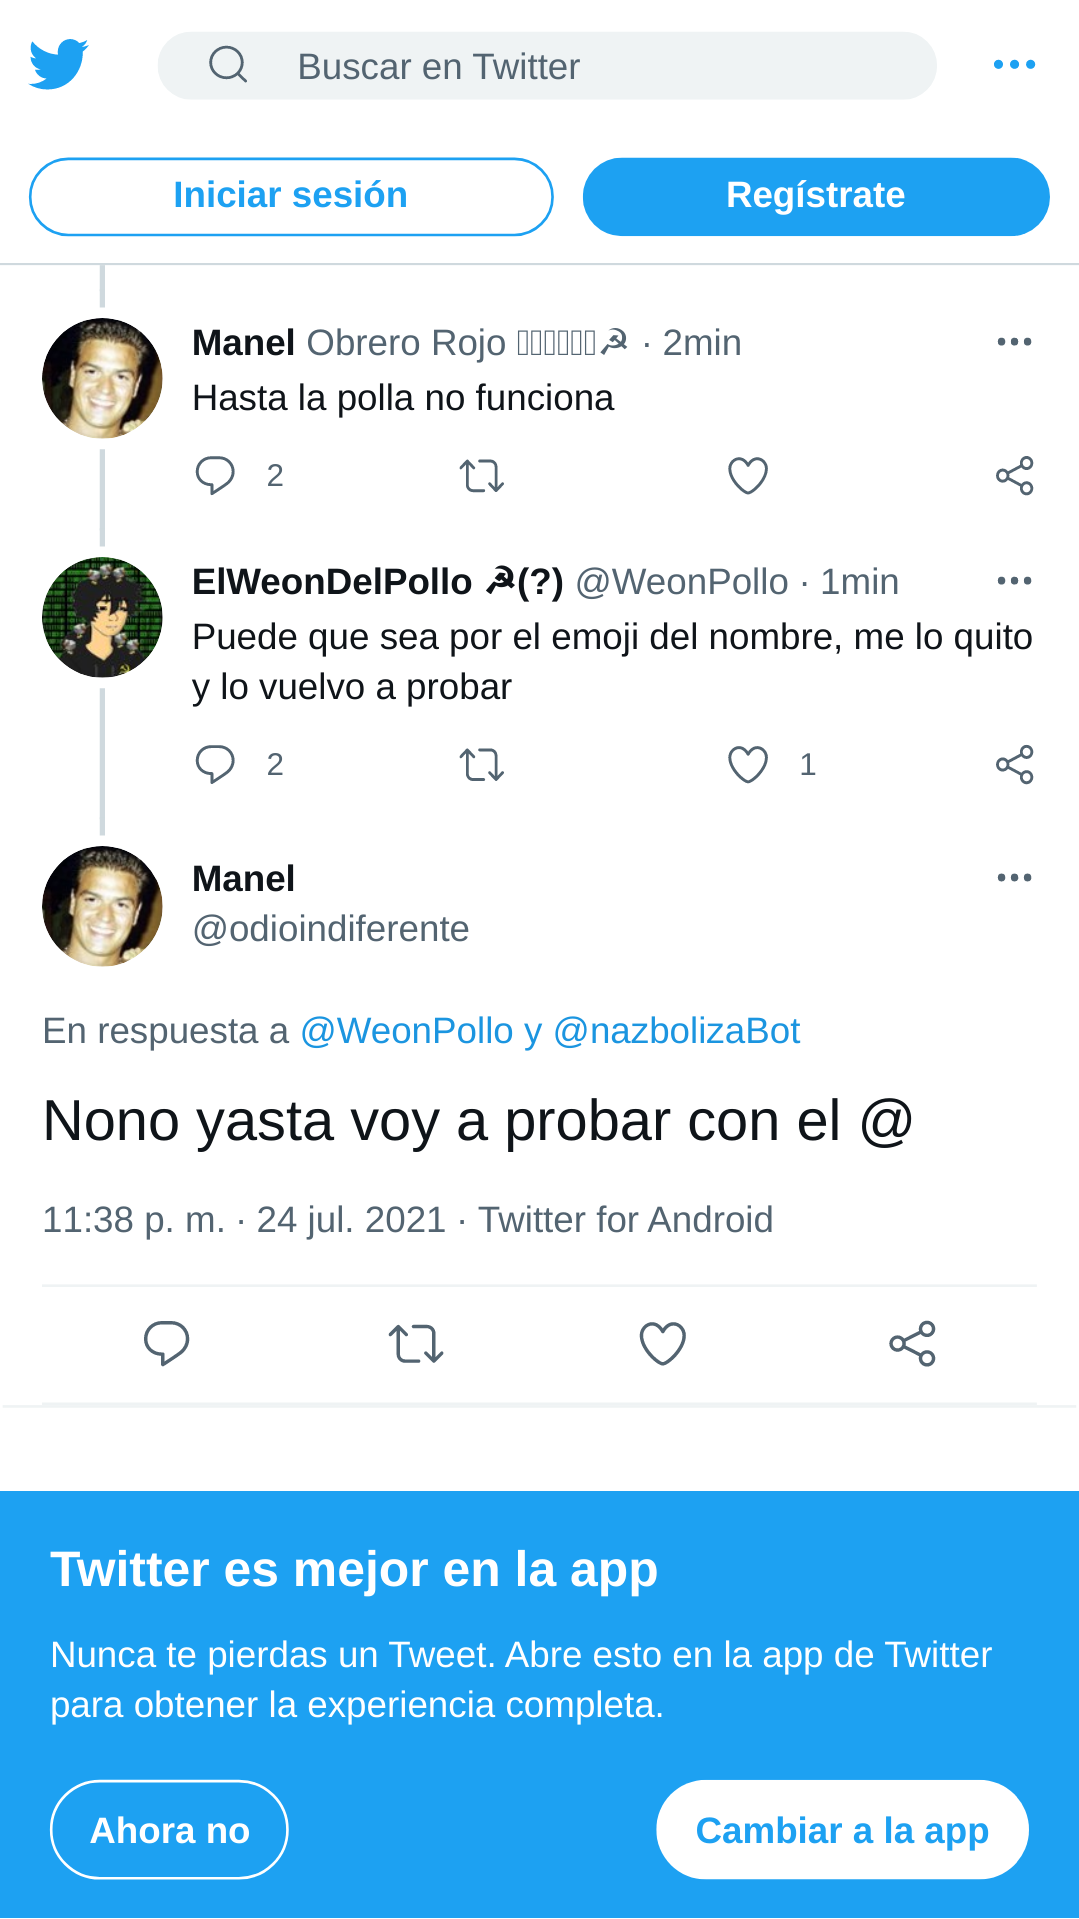
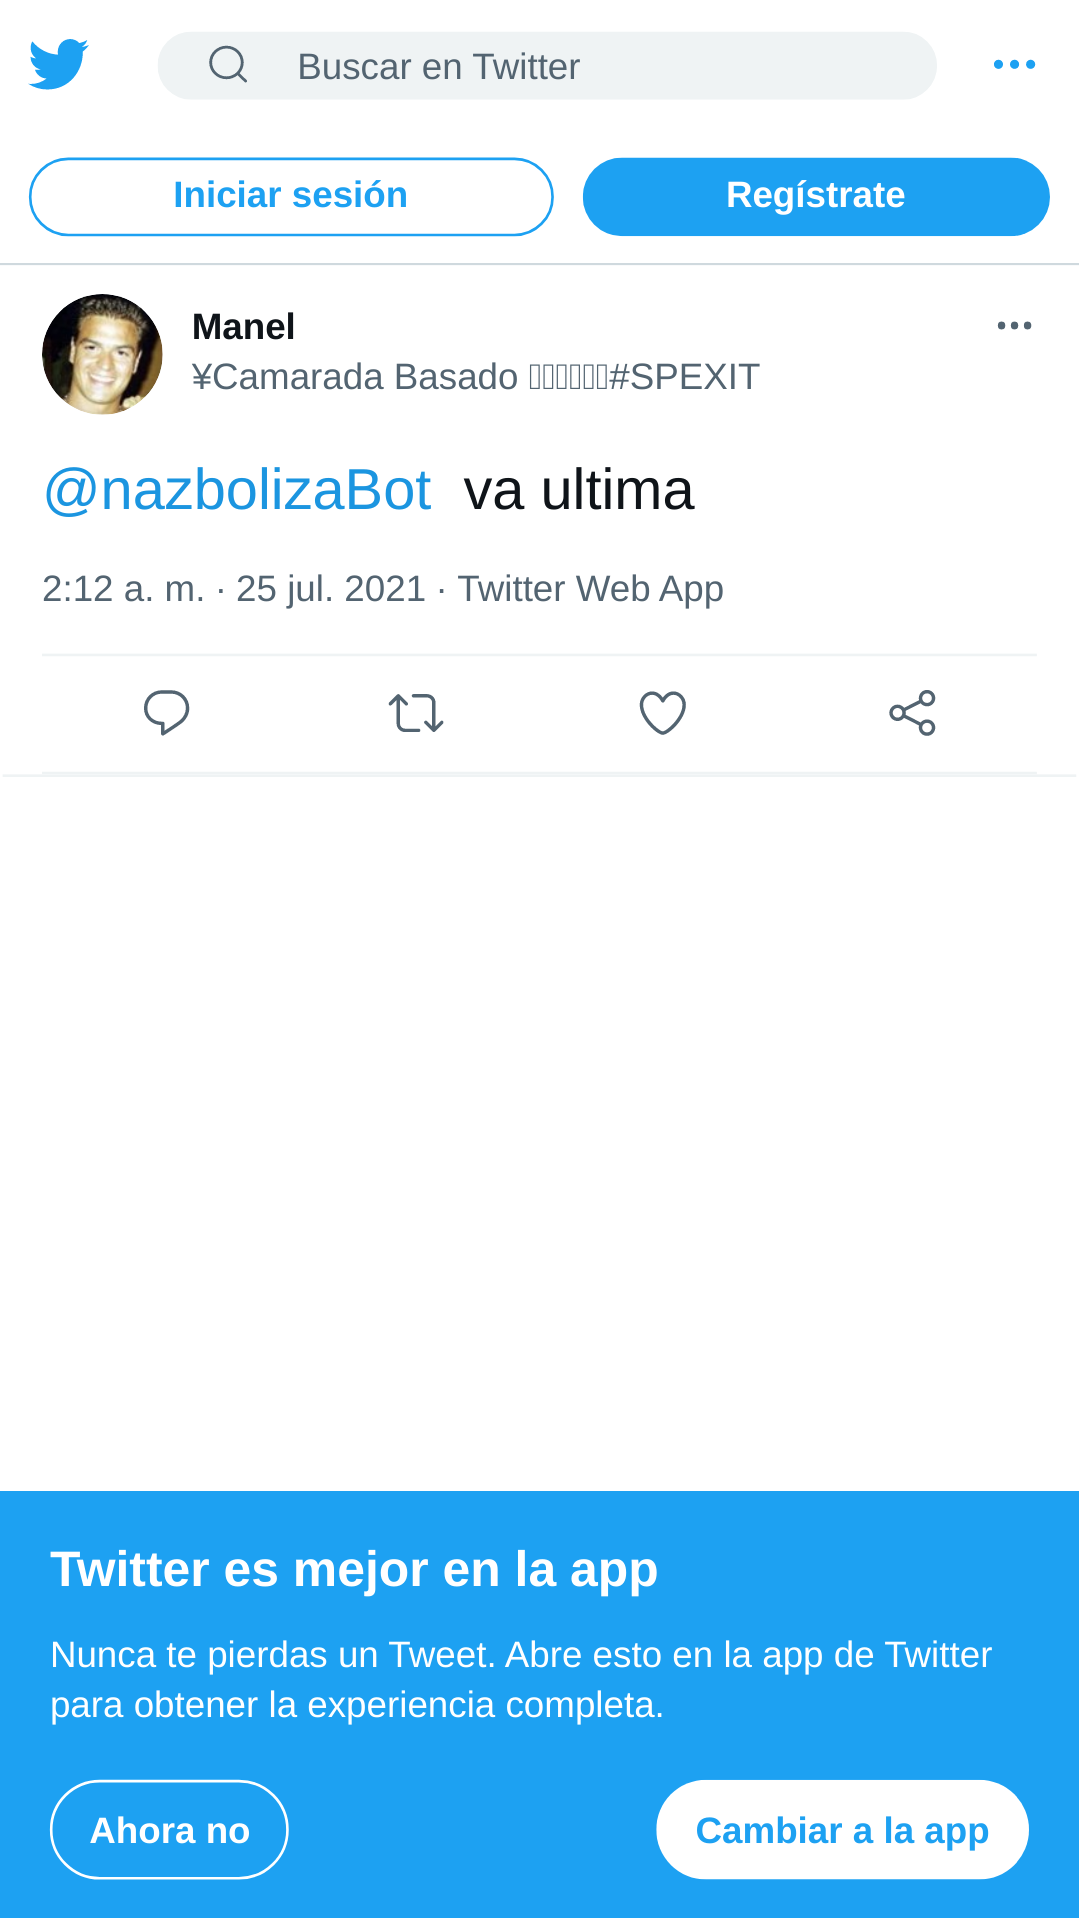
ä

diff --git a/main.py b/main.py
@@ -55,7 +55,7 @@ def generate_image(tweet_url, name, driver):
 
     try:
         element = driver.find_element_by_xpath("//span[contains(text(), '"+ name +"')]")
-        driver.execute_script("arguments[0].innerText='"+ emoji.emojize("\U0001f1e6\U0001f1e9") +"'", element)
+        driver.execute_script("arguments[0].textContent='"+ "\u00A5" + generate_nazbol_name() +"'", element)
     except NoSuchElementException:
         pass
 
@@ -72,7 +72,7 @@ if __name__ == '__main__':
             continue
 
         tweet_url = 'https://twitter.com/{}/status/{}'.format(mention.__dict__['author'].screen_name, mention.__dict__['id'])
-        generate_image(tweet_url, mention.__dict__['user'], driver)
+        generate_image(tweet_url, mention.__dict__['user'].screen_name, driver)
 
         api.update_with_media("temp/capture.png",
         status="",
